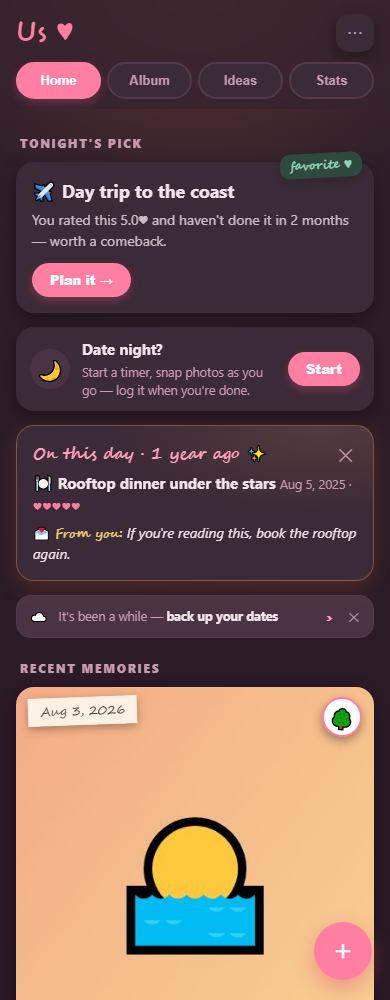
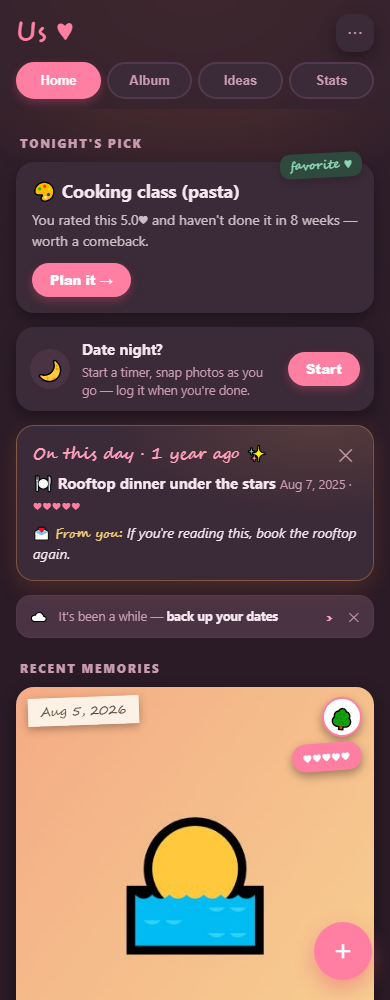
Release-validation triage round: six fixes across Stats, Ideas, Log, Home
- Stats: This-year/All-time toggle now scopes every section, not just the
  Wrapped card and tiles (falls back to all-time when the year is empty).
- Ideas: filter block collapsed into one compact chip-row toolbar
  (budget + effort + category + vibe), reclaiming ~470px above results.
- Date-night/Home cards: hearts + vibe stickers moved to the top-right
  under the category sticker so the camera/log FAB never covers them;
  caption now spans the full card width.
- Log form: vibe field pulled up next to the again-o-meter (dead band gone).
- Log category strip: denser, wider fade mask + right scroll padding so no
  chip ever reads cut mid-word and the last chip can scroll clear.
- Gallery: multi-photo dates label only their first tile.

diff --git a/js/ui.js b/js/ui.js
@@ -1220,10 +1220,10 @@ async function renderHistoryList() {
       host.innerHTML = `<div class="empty"><div class="big">📷</div>No photos for this filter.</div>`;
       return;
     }
-    host.innerHTML = `<div class="hist-gallery">${photoEntries.map(({ pid, e }) =>
+    host.innerHTML = `<div class="hist-gallery">${photoEntries.map(({ pid, e }, i) =>
       `<div class="gallery-tile" data-entry="${escAttr(e.id)}" data-pid="${escAttr(pid)}">
         <img src="" data-load="${escAttr(pid)}" alt="${escAttr(e.title)}"/>
-        <div class="gallery-label">${escHtml(e.title)}</div>
+        ${i === 0 || photoEntries[i - 1].e.id !== e.id ? `<div class="gallery-label">${escHtml(e.title)}</div>` : ""}
       </div>`).join("")}</div>`;
     host.querySelectorAll("[data-load]").forEach(async img => {
       const url = await photoURL(img.dataset.load);
@@ -1607,13 +1607,18 @@ function renderInsights() {
     return;
   }
   const wStats = wrappedStats(wrapPeriod);
-  const s = A.summary(d);
-  const cats = A.byCategory(d);
-  const moods = A.byMood(d);
-  const trend = A.monthlyTrend(d);
-  const vfm = A.valueForMoney(d, 5);
-  const rep = A.repeatWorthy(d, 5);
-  const exp = A.explorationStats(d);
+  // Scope the whole tab to the selected period, same "year" definition wrappedStats uses
+  // (fall back to all-time if the year has no entries, matching wrappedStats' own fallback).
+  const year = new Date().getFullYear();
+  let scoped = wrapPeriod === "year" ? d.filter(e => new Date(entryTimeMs(e)).getFullYear() === year) : d;
+  if (wrapPeriod === "year" && !scoped.length) scoped = d;
+  const s = A.summary(scoped);
+  const cats = A.byCategory(scoped);
+  const moods = A.byMood(scoped);
+  const trend = A.monthlyTrend(scoped);
+  const vfm = A.valueForMoney(scoped, 5);
+  const rep = A.repeatWorthy(scoped, 5);
+  const exp = A.explorationStats(scoped);
 
   const moodSection = moods.length ? (() => {
     const maxCount = moods[0].count;
@@ -1703,48 +1708,50 @@ function renderSuggest() {
         ? `<div class="slider-ends"><span class="muted-hint">unlocks after your first logged date</span></div>`
         : `<div class="slider-ends"><span>Comfort (favorites)</span><span>Adventure (new)</span></div>`}
 
-      <div class="seg4" id="s-budget" style="margin-top:14px">
-        ${COST_TIERS.map(t => `<button class="${sug.budgetTier === t.key ? "on" : ""}" data-btier="${t.key}">${t.label}</button>`).join("")}
+      <div class="sug-filters">
+        <div class="seg4" id="s-budget">
+          ${COST_TIERS.map(t => `<button class="${sug.budgetTier === t.key ? "on" : ""}" data-btier="${t.key}">${t.label}</button>`).join("")}
+        </div>
+        <details class="filter-group effort" id="s-effort-group">
+          <summary>
+            <span class="fg-right"><span class="fg-badge${sug.maxEffort ? "" : " muted"}">${sug.maxEffort ? "⚡".repeat(sug.maxEffort) : "Any"}</span></span>
+            <span class="fg-arrow">▼</span>
+          </summary>
+          <div class="chips-row" id="s-effort">
+            <button class="chip-sm ${sug.maxEffort == null ? "on" : ""}" data-seffort="">Any</button>
+            <button class="chip-sm ${sug.maxEffort === 1 ? "on" : ""}" data-seffort="1">⚡</button>
+            <button class="chip-sm ${sug.maxEffort === 2 ? "on" : ""}" data-seffort="2">⚡⚡</button>
+            <button class="chip-sm ${sug.maxEffort === 3 ? "on" : ""}" data-seffort="3">⚡⚡⚡</button>
+          </div>
+        </details>
+
+        <details class="filter-group" id="s-cat-group">
+          <summary>
+            <span class="fg-label">Category</span>
+            <span class="fg-right">
+              ${sug.category ? `<span class="fg-badge">${CATEGORIES.find(c => c.key === sug.category)?.emoji} ${CATEGORIES.find(c => c.key === sug.category)?.label}</span>` : ""}
+              <span class="fg-arrow">▼</span>
+            </span>
+          </summary>
+          <div class="chips" id="s-cat">
+            <button class="chip ${!sug.category ? "on" : ""}" data-scat="">Any</button>
+            ${CATEGORIES.map(c => `<button class="chip ${sug.category === c.key ? "on" : ""}" data-scat="${c.key}">${c.emoji} ${c.label}</button>`).join("")}
+          </div>
+        </details>
+
+        <details class="filter-group" id="s-mood-group">
+          <summary>
+            <span class="fg-label">Vibe</span>
+            <span class="fg-right">
+              ${sug.moods.length ? `<span class="fg-badge">${sug.moods.length === 1 ? (MOOD_OPTIONS.find(m => m.key === sug.moods[0])?.emoji + " " + MOOD_OPTIONS.find(m => m.key === sug.moods[0])?.label) : sug.moods.length + " selected"}</span>` : ""}
+              <span class="fg-arrow">▼</span>
+            </span>
+          </summary>
+          <div class="chips" id="s-mood">
+            ${MOOD_OPTIONS.map(m => `<button class="chip ${sug.moods.includes(m.key) ? "on" : ""}" data-smood="${m.key}">${m.emoji} ${m.label}</button>`).join("")}
+          </div>
+        </details>
       </div>
-      <details class="filter-group effort" id="s-effort-group">
-        <summary>
-          <span class="fg-right"><span class="fg-badge${sug.maxEffort ? "" : " muted"}">${sug.maxEffort ? "⚡".repeat(sug.maxEffort) : "Any"}</span></span>
-          <span class="fg-arrow">▼</span>
-        </summary>
-        <div class="chips-row" id="s-effort">
-          <button class="chip-sm ${sug.maxEffort == null ? "on" : ""}" data-seffort="">Any</button>
-          <button class="chip-sm ${sug.maxEffort === 1 ? "on" : ""}" data-seffort="1">⚡</button>
-          <button class="chip-sm ${sug.maxEffort === 2 ? "on" : ""}" data-seffort="2">⚡⚡</button>
-          <button class="chip-sm ${sug.maxEffort === 3 ? "on" : ""}" data-seffort="3">⚡⚡⚡</button>
-        </div>
-      </details>
-
-      <details class="filter-group" id="s-cat-group">
-        <summary>
-          <span class="fg-label">Category</span>
-          <span class="fg-right">
-            ${sug.category ? `<span class="fg-badge">${CATEGORIES.find(c => c.key === sug.category)?.emoji} ${CATEGORIES.find(c => c.key === sug.category)?.label}</span>` : ""}
-            <span class="fg-arrow">▼</span>
-          </span>
-        </summary>
-        <div class="chips" id="s-cat">
-          <button class="chip ${!sug.category ? "on" : ""}" data-scat="">Any</button>
-          ${CATEGORIES.map(c => `<button class="chip ${sug.category === c.key ? "on" : ""}" data-scat="${c.key}">${c.emoji} ${c.label}</button>`).join("")}
-        </div>
-      </details>
-
-      <details class="filter-group" id="s-mood-group">
-        <summary>
-          <span class="fg-label">Vibe</span>
-          <span class="fg-right">
-            ${sug.moods.length ? `<span class="fg-badge">${sug.moods.length === 1 ? (MOOD_OPTIONS.find(m => m.key === sug.moods[0])?.emoji + " " + MOOD_OPTIONS.find(m => m.key === sug.moods[0])?.label) : sug.moods.length + " selected"}</span>` : ""}
-            <span class="fg-arrow">▼</span>
-          </span>
-        </summary>
-        <div class="chips" id="s-mood">
-          ${MOOD_OPTIONS.map(m => `<button class="chip ${sug.moods.includes(m.key) ? "on" : ""}" data-smood="${m.key}">${m.emoji} ${m.label}</button>`).join("")}
-        </div>
-      </details>
 
       <div class="btn-row">
         <button class="btn secondary" id="s-shuffle">🎲 Surprise us</button>

diff --git a/css/styles.css b/css/styles.css
@@ -318,6 +318,14 @@ input:focus, textarea:focus, select:focus { outline: 2px solid var(--accent); bo
 .hist-row2 .filter-group summary { padding: 8px 10px; font-size: 13px; }
 .hist-count { font-size: 13px; color: var(--muted); white-space: nowrap; margin-left: auto; }
 
+/* Suggest tab — compact one-row toolbar, same flow as .hist-row2 */
+.sug-filters { display: flex; align-items: center; gap: 6px; flex-wrap: wrap; margin-top: 14px; }
+.sug-filters .seg4 { flex: none; display: flex; gap: 6px; }
+.sug-filters .seg4 button { width: auto; padding: 8px 12px; }
+.sug-filters .filter-group { flex: none; margin: 0; }
+.sug-filters .filter-group[open] { flex-basis: 100%; }
+.sug-filters .filter-group summary { padding: 8px 10px; font-size: 13px; }
+
 /* Collapsible filter groups */
 .filter-group { border: none; padding: 0; margin: 0 0 4px; }
 .filter-group summary {
@@ -386,9 +394,12 @@ input:focus, textarea:focus, select:focus { outline: 2px solid var(--accent); bo
 .stk { position: absolute; z-index: 2; }
 .stk.tape { top: 10px; left: 12px; transform: rotate(-2deg); background: rgba(253, 246, 238, .92); padding: 4px 12px; box-shadow: 0 3px 8px rgba(0, 0, 0, .3); font: 400 12.5px var(--cursive); color: #5a4636; }
 .stk.cat { top: 10px; right: 12px; transform: rotate(6deg); background: #fff; width: 40px; height: 40px; border-radius: 50%; display: grid; place-items: center; font-size: 20px; border: 2.5px solid var(--accent); box-shadow: 0 4px 10px rgba(0, 0, 0, .35); }
-.stk.hearts { bottom: 12px; right: 12px; transform: rotate(-4deg); background: var(--accent); color: #fff; padding: 5px 11px; font-size: 12.5px; font-weight: 800; border-radius: 999px; box-shadow: 0 4px 10px rgba(0, 0, 0, .35); white-space: nowrap; letter-spacing: 1px; }
-.stk.vibe { bottom: 46px; right: 16px; transform: rotate(7deg); background: rgba(253, 246, 238, .92); padding: 3px 10px; font: 600 12.5px var(--cursive); color: #5a4636; border-radius: 4px; box-shadow: 0 3px 8px rgba(0, 0, 0, .3); }
-.stk.caption { left: 14px; right: 96px; bottom: 10px; font: 600 18px var(--cursive); color: #fff; text-shadow: 0 2px 6px rgba(0, 0, 0, .7); white-space: nowrap; overflow: hidden; text-overflow: ellipsis; }
+/* hearts/vibe live in the top-right corner, under .stk.cat, instead of bottom-right —
+   the bottom-right corner of any card can end up under the fixed camera/log FAB
+   (e.g. a short date-night home list), so keep that corner sticker-free. */
+.stk.hearts { top: 56px; right: 12px; transform: rotate(-4deg); background: var(--accent); color: #fff; padding: 5px 11px; font-size: 12.5px; font-weight: 800; border-radius: 999px; box-shadow: 0 4px 10px rgba(0, 0, 0, .35); white-space: nowrap; letter-spacing: 1px; }
+.stk.vibe { top: 90px; right: 16px; transform: rotate(7deg); background: rgba(253, 246, 238, .92); padding: 3px 10px; font: 600 12.5px var(--cursive); color: #5a4636; border-radius: 4px; box-shadow: 0 3px 8px rgba(0, 0, 0, .3); }
+.stk.caption { left: 14px; right: 14px; bottom: 10px; font: 600 18px var(--cursive); color: #fff; text-shadow: 0 2px 6px rgba(0, 0, 0, .7); white-space: nowrap; overflow: hidden; text-overflow: ellipsis; }
 .stk.caption .sub { display: block; font: 400 11.5px -apple-system, BlinkMacSystemFont, "Segoe UI", sans-serif; color: rgba(255, 255, 255, .78); text-shadow: 0 1px 4px rgba(0, 0, 0, .8); margin-top: 1px; }
 
 /* round rater initial badge */
@@ -550,13 +561,13 @@ input:focus, textarea:focus, select:focus { outline: 2px solid var(--accent); bo
 .from-photo { align-self: flex-start; display: inline-flex; align-items: center; gap: 5px; margin: 8px 0 -2px; background: var(--card-2); color: var(--accent); border: 1px solid var(--line); border-radius: 999px; padding: 4px 11px; font-size: 12px; font-weight: 700; }
 .from-photo button { background: none; border: none; padding: 0; font: inherit; color: inherit; text-decoration: underline; cursor: pointer; }
 .cat-strip-wrap { position: relative; margin: 10px 0; }
-.cat-strip { display: flex; gap: 8px; overflow-x: auto; padding: 2px 2px 6px; scrollbar-width: none; }
+.cat-strip { display: flex; gap: 8px; overflow-x: auto; padding: 2px 110px 6px 2px; scrollbar-width: none; } /* right padding lets the last chip scroll clear of the fade mask */
 .cat-strip::-webkit-scrollbar { display: none; }
 .cat-chip { flex: none; display: flex; align-items: center; gap: 6px; padding: 8px 12px; border-radius: 999px; background: var(--card-2); border: 1.5px solid var(--line); font-size: 13px; font-weight: 700; color: var(--text); white-space: nowrap; cursor: pointer; }
 .cat-chip .em { font-size: 15px; }
 .cat-chip.on { background: var(--accent); border-color: var(--accent); color: #fff; box-shadow: 0 0 0 3px rgba(255, 127, 162, .35); }
-.cat-fade { position: absolute; right: 0; top: 0; bottom: 6px; width: 96px; background: linear-gradient(90deg, transparent, var(--card) 30%, var(--card) 100%); pointer-events: none; }
-.fields-bottom { margin-top: auto; }
+.cat-fade { position: absolute; right: 0; top: 0; bottom: 6px; width: 120px; background: linear-gradient(90deg, transparent, var(--card) 30%, var(--card) 100%); pointer-events: none; }
+.fields-bottom { margin-top: 10px; }
 .blocklabel { font-size: 12px; font-weight: 800; text-transform: uppercase; letter-spacing: .12em; color: var(--muted); margin: 14px 2px 8px; }
 .seg4 { display: grid; grid-template-columns: repeat(4, 1fr); gap: 6px; }
 .seg4 button { border: 1.5px solid var(--line); background: var(--card-2); color: var(--text); border-radius: 12px; padding: 10px 0; font-size: 14px; font-weight: 700; cursor: pointer; }
